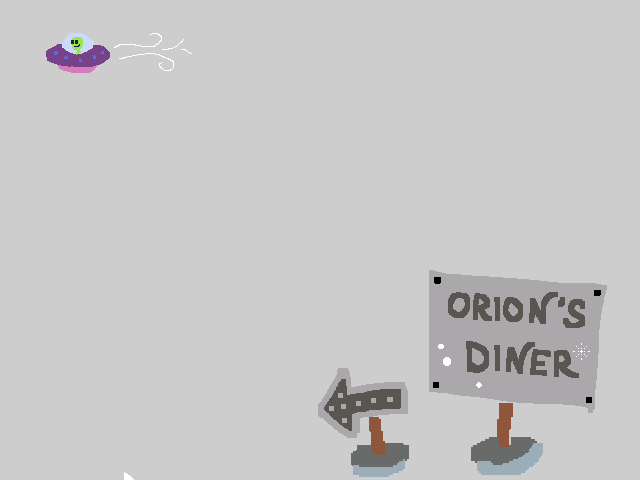
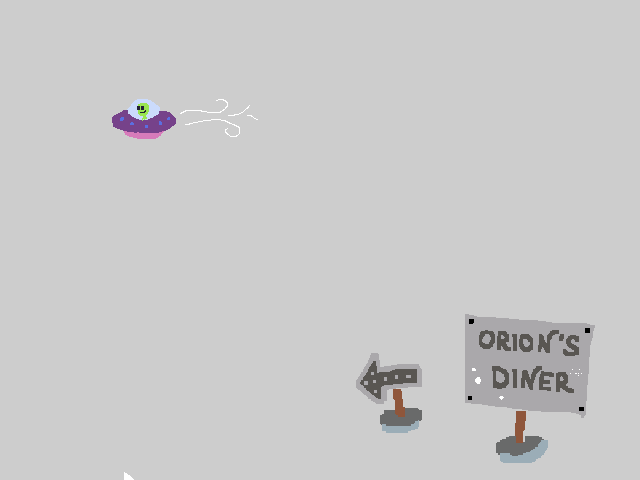
Parallax and New Artwork

diff --git a/src/scenes/Play.js b/src/scenes/Play.js
@@ -16,8 +16,8 @@ class Play extends Phaser.Scene {
 
     create() {
         //place tile sprite
-        this.parallax = this.add.tileSprite(0, 0, 640, 480, 'parallax').setOrigin(0,0);
         this.starfield = this.add.tileSprite(0, 0, 640, 480, 'starfield').setOrigin(0, 0);
+        this.parallax = this.add.tileSprite(0, 0, 640, 480, 'parallax').setScale(.9, .8).setOrigin(-.1, -.15);
 
         // white rectangle borders
         this.add.rectangle(5, 5, 630, 32, 0xAAADE).setOrigin(0, 0);
@@ -104,8 +104,8 @@ class Play extends Phaser.Scene {
         }
 
         //scroll starfield
-        this.parallax.tilePositionX -= 5;
-        this.starfield.tilePositionX -= 4;
+        this.parallax.tilePositionX -= 3.5;
+        this.starfield.tilePositionX -= 2;
         if (!this.gameOver) {               
             this.p1Rocket.update();         // update rocket sprite
             this.ship01.update();           // update spaceships (x3)

diff --git a/src/prefabs/Rocket.js b/src/prefabs/Rocket.js
@@ -15,7 +15,7 @@ class Rocket extends Phaser.GameObjects.Sprite {
                 this.x -= game.settings.spaceshipSpeed;
             }
             if(keyRIGHT.isDown && this.x <= 598) {
-                this.x += 2;
+                this.x += game.settings.spaceshipSpeed;
             }
        // }
 
